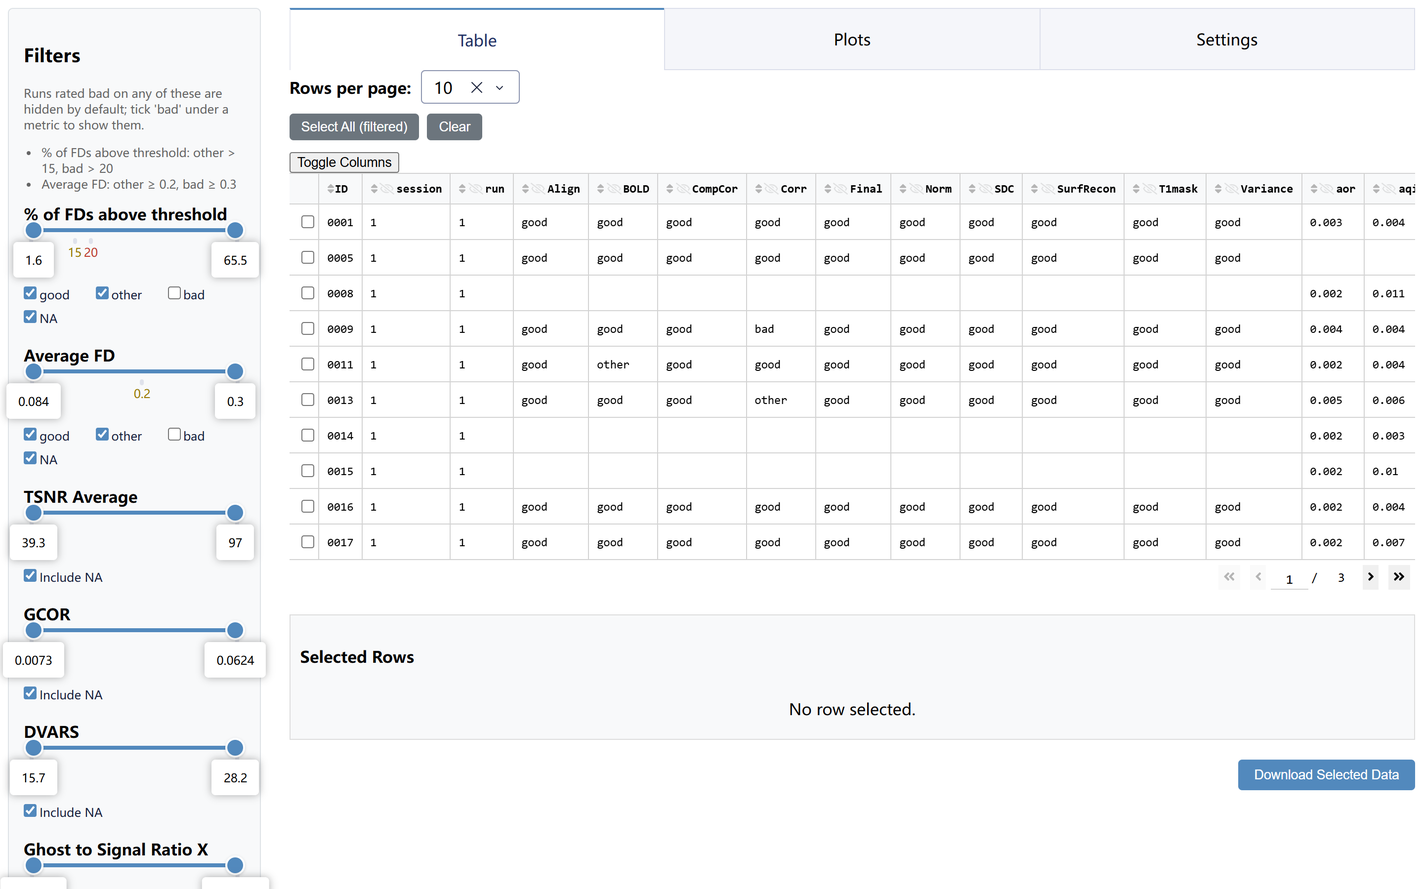
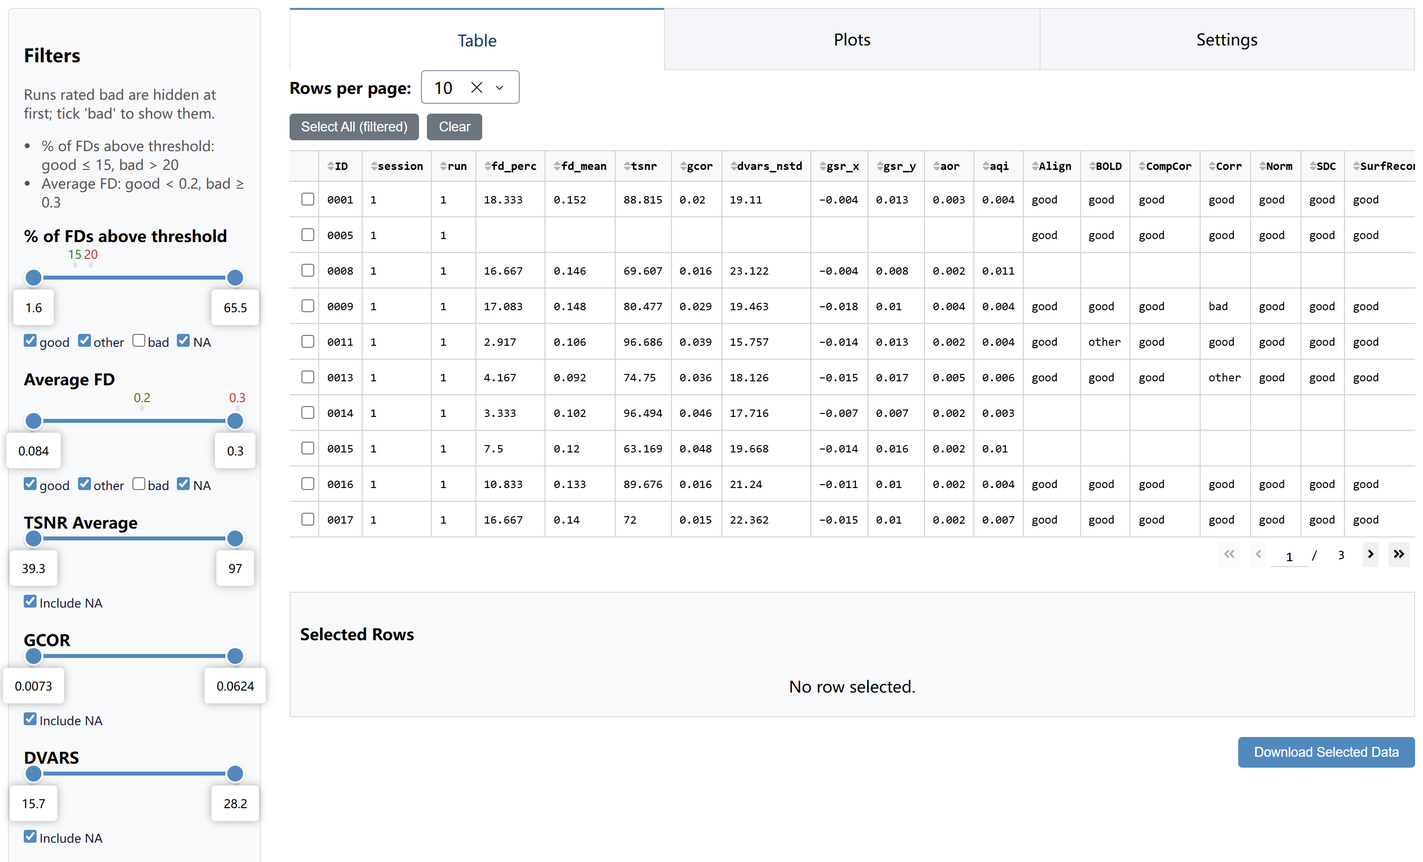
Keep only a quick start in the README and point to the handbook
The dashboard screenshots now end where each tab's content ends instead of filling a fixed window, so the Plots view shows the heatmaps and the lollipop chart without blank space below.

diff --git a/README.md b/README.md
@@ -1,296 +1,76 @@
 # fMRI-QCtoolkit
 
-fMRI-QCtoolkit is a modular Python package for fMRI (functional Magnetic Resonance Imaging) quality control (QC), integrating quantitative metrics from [MRIQC](https://mriqc.readthedocs.io/en/latest/), [fMRIPrep](https://fmriprep.org/en/stable/), and [AFNI](https://afni.nimh.nih.gov/), along with manual scoring. The package includes an interactive dashboard with customizable filters and visualizations, a lightweight front-end for manual rating for fMRIPrep, and supports batch-level scoring for both fMRIPrep and AFNI outputs.
+fMRI-QCtoolkit is a Python package for the quality control (QC) of preprocessed fMRI data. It combines your visual ratings of each participant's QC report with the quantitative metrics from [AFNI](https://afni.nimh.nih.gov/) or [MRIQC](https://mriqc.readthedocs.io/en/latest/), and shows both in an interactive dashboard where you filter runs, look at them in a table and in plots, and download the ones you keep. It works with the outputs of [fMRIPrep](https://fmriprep.org/en/stable/) and AFNI's `afni_proc.py`.
+
+**Handbook: <https://qiuyuyu3.github.io/fMRI-QCtoolkit/>**
 
 ![workflow](https://raw.githubusercontent.com/QiuyuYu3/fMRI-QCtoolkit/main/images/workflow.png)
 
 ## Install
+
 Python 3.11 or newer is required. Create or activate a virtual environment, then install from PyPI:
 
 ```bash
 pip install fmri-qctoolkit
 ```
 
-The example data used in the commands below is not part of the PyPI package. To run the examples, or to work on the code, clone the repository and install it in development mode:
+## Quick start
+
+**1. Rate** each participant's QC report: AFNI's APQC report, or the fMRIPrep report in the toolkit's rating page.
 
 ```bash
-git clone https://github.com/QiuyuYu3/fMRI-QCtoolkit.git
-cd fMRI-QCtoolkit
-pip install -e .[dev]
+fmriqc rating afni --input-dir /PATH/AFNI_derivatives --subjects "001,002" --task rest --prefix sub-
+fmriqc rating fmriprep --input-dir /PATH/fmriprep --subjects "001,002" --output-dir /PATH/ratings
 ```
 
-# Usage
-
-## STEP1: Rating
-
-After the completion of preprocessing, perform qualitative scoring on the derivatives.
-
-### AFNI
-AFNI provides [scripts](https://afni.nimh.nih.gov/pub/dist/doc/htmldoc/tutorials/apqc_html/browsing.html#using-a-script-to-load-many-apqc-html-files) for browsing multiple subjects' QC files. However, using `firefox` on HPC (High-performance computing) systems may result in issues interacting with buttons, so this using `open_apqc.py` is another option (while ensuring the required Python packages are activated in the environment).
-
-The directory structure of AFNI derivatives is as follows:
-```
-.
-└── AFNI_derivatives/
-    ├── sub-001/
-    │   └── ses-01/
-    │       └── cards_output/
-    │           └── sub-001.results/
-    │               ├── QC_sub-001
-    │               └── ...
-    ├── sub-002
-    ├── sub-003
-    └── ...
-```
-
-**Input Arguments:**
-- `fmriqc rating afni`: Indicate which rating program.
-- `--input-dir`: Root directory, containing results that preprocessed from different participants.
-- `--subjects`: Support input multiple participants IDs.
-- `--task`: Rating program will search `task` in `input-dir` to find the `QC_{subj}`
-- `--prefix`: The prefix of participants IDs. 
-
-**Example Synatx:**
-```bash
-fmriqc rating afni --input-dir /PATH/AFNI_derivatives --subjects "003,009" --task ses-01/cards --prefix sub-
-```
-
-*Although I've tried to make the scoring criteria flexible, it may still not support all pathfinding scenarios. Therefore, you can also try [script version](https://github.com/QiuyuYu3/fMRI-QCtoolkit/blob/main/examples/scripts/rating/afni_rating.sh).*
-
-> [!IMPORTANT]  
-> The rating program relies on the `open_apqc.py` tool developed by AFNI.  
-> You can either:
-> - Make sure `open_apqc.py` is on your `$PATH` (e.g., load the AFNI module first), or  
-> - Provide a custom path using the `--afni-path` option when running the command.
-> `fmriqc rating afni --input-dir /PATH/AFNI_derivatives --subjects "003,009" --task ses-01/cards --prefix sub- --afni-path /PATH`
-
-![AFNI_rating](https://raw.githubusercontent.com/QiuyuYu3/fMRI-QCtoolkit/main/images/AFNI_rating.png)
-
-### fMRIPrep
-The rating module in **fMRI-QCtoolkit** is based on the HTML reports generated by fMRIPrep (e.g., `sub-{ID}.html`).  
-Each QC item maps directly to specific sections of the original [fMRIPrep report](https://fmriprep.org/en/stable/_static/SampleReport/sample_report.html).
-
-- Brain mask and brain tissue segmentation of the T1w (T1mask)
-- Spatial normalization of the anatomical T1w reference (Norm)
-- Surface reconstruction (SurfRecon)
-- Susceptibility distortion correction (SDC)
-- Alignment of functional and anatomical MRI data (coregistration) (Align)
-- Brain mask and (anatomical/temporal) CompCor ROIs (CompCor)
-- Variance explained by t/aCompCor components (Variance)
-- BOLD Summary (BOLD)
-- Correlations among nuisance regressors (Corr)
-
-The interface is divided into two parts:  
-- **Upper panel**: navigate modules with a left-click; scroll horizontally with the mouse wheel.  
-- **Lower panel**: interactive rating area, similar to [AFNI’s APQC HTML](https://afni.nimh.nih.gov/pub/dist/doc/htmldoc/tutorials/apqc_html/main_toc.html).  
-  - Left-click to rate, Ctrl+click to add comments.  
-  - Rating buttons toggle between: good (+, green), bad (×, red), and other (?, yellow).  
-  - Results are saved automatically as CSV files (subject-level and task-level). Upon reopening the program with the same code, it will automatically retrieve the previous scores by extracting the subject-level CSV file.
-
-> [!IMPORTANT]
-> If the program cannot detect the session and run number, both will default to 1. For example, the saved CSV file name would be `sub-{ID}_ses-01_rest.csv`. Therefore, when merging with files generated by MRIQC, you need to modify the `ses` parameters.
-
-> [!IMPORTANT]
-> For multi-session subjects, fMRIPrep merges all T1w images into a single anatomical reference ([longitudinal processing](https://fmriprep.org/en/stable/workflows.html#longitudinal-processing)). T1mask / Norm / SurfRecon therefore describe that merged image: one rating per subject, not per session. If several images appear under one of these headings, the subject was processed more than once; check the `Get figure file:` line and rate the one from your current run.
-
-The directory structure of fMRIPrep derivatives is as follows:
-```
-.
-└── fMRIPrep_derivatives/
-    ├── sub-001
-    ├── sub-001.html
-    ├── sub-002
-    ├── sub-002.html
-    ├── sub-003
-    ├── sub-003.html
-    ├── dataset_description.json
-    ├── desc-aparcaseg_dseg.tsv
-    ├── desc-aseg_dseg.tsv
-    └── ...
-```
-
-**Input Arguments:**
-- `fmriqc rating fmriprep`: Indicate which rating program.
-- `--input-dir`: Root directory, containing results that preprocessed from different participants.
-- `--subjects`: Support input multiple participants IDs.
-- `--output-dir`: Path for exporting the scoring CSV file.
-- `--no-browser`: Only print the links, without opening browser tabs (useful on HPC; see [Opening the Pages](#opening-the-pages)).
-
-**Example Synatx:**
-```bash
-fmriqc rating fmriprep --input-dir /PATH/fMRIPrep_derivatives --output-dir /PATH/Output_dir --subjects "1013,1026"
-```
-
-![fMRIPrep_rating](https://raw.githubusercontent.com/QiuyuYu3/fMRI-QCtoolkit/main/images/fMRIPrep_rating.png)
-
-## STEP2: Data Preparation
-By extracting information from qualitative rating files, `fmriqc prep` then writes `df_final.csv`, the table the dashboard reads.
-
-### AFNI
-After finishing preprocessing and rating, both quantitative and qualitative rating information are saved in `QC_{subj}/extra_info/out.ss_review.{subj}.json`. `df_final.csv` keeps every numeric field of this file (a field that holds a list, such as per-run values, gets one column per value), so any of them can be added to the dashboard later.
-
-**Input Arguments:**
-- `fmriqc prep afni`: Indicate which rating program.
-- `--input-dir`: Root directory, containing results that preprocessed from different participants.
-- `--output-dir`: Path for exporting `df_final.csv`.
-- `--task`: Prep program will search `task` in `input-dir` to find the `QC_{subj}/extra_info/out.ss_review.{subj}.json` across all participants. Each run covers one session: if a subject matches in more than one place (for example `ses-01/rest_output` and `ses-02/rest_output`), narrow `--task` to `ses-01/rest`.
-- `--prefix`: The prefix of participants IDs.
-
-**Example Synatx:**
-```bash
-fmriqc prep afni --input-dir /PATH/AFNI_derivatives --task ses-01/kidvid --output-dir /PATH/Output_dir --prefix sub-
-```
-
-> [!NOTE]
-> The dashboard rates the quantitative parameters with the thresholds of Reynolds et al. (2023) ([table](https://www.frontiersin.org/files/Articles/1073800/fnins-16-1073800-HTML/image_m/fnins-16-1073800-t001.jpg)). To use your own, see [Thresholds and filters](#thresholds-and-filters).
-
-### fMRIPrep
-
-After finishing rating procedure, merge the qualitative rating files with quantitative file (`group_bold.tsv`) that generates by MRIQC, and write `df_final.csv` for the dashboard. `df_final.csv` keeps every numeric metric of `group_bold.tsv`, so any of them can be added to the dashboard later.
-
-**Input Arguments:**
-- `fmriqc prep fmriprep`: Indicate which rating program.
-- `--bold-file`:  Input `group_bold.tsv` file that generated by MRIQC.
-- `--rating-dir`: Path for storing fMRIPrep qualitative scores.
-- `--task`: Indicate which task's rating data you want to use.
-- `--output-dir`: Path for exporting `df_final.csv`.
-
-**Example Synatx:**
-```bash
-fmriqc prep fmriprep --bold-file examples/example_data/fmriprep/group_bold.tsv --rating-dir examples/example_data/fmriprep/ --task rest --output-dir examples/example_data/fmriprep/
-```
-
-> [!NOTE]
-> The quantitative parameters are MRIQC's [image quality metrics](https://mriqc.readthedocs.io/en/latest/iqms/bold.html). By default the dashboard rates `fd_perc` and `fd_mean` only, with cut-offs adapted from the AFNI ones, and shows a few other metrics that can be filtered but are not rated. To change this or add other metrics, see [Thresholds and filters](#thresholds-and-filters).
-
-### STEP3: Viewing and Filtering Results via Dashboard
-Visualize, filter, and export selected data.
-
-The left side of the dashboard features filter sidebars where users can select the desired ranges. The central tabs display the data table, the visualizations (heatmaps and lollipop charts), and the settings (see [Thresholds and filters](#thresholds-and-filters)). The table shows the ID, session and run columns, the metrics in the sidebar in the same order, and the ratings; to show another column of `df_final.csv`, add it in the Settings tab. After selecting rows in the data table, the blue download button below allows exporting the corresponding data frame with all its columns.
-
-By default, runs rated bad on any metric are hidden, while runs rated other stay visible and show yellow in the heatmap. Under each rated metric, tick boxes choose which ratings (good, other, bad, NA) are shown; tick bad to bring those runs back. The sliders start at the full range and narrow the view further.
-
-![dashboard1](https://raw.githubusercontent.com/QiuyuYu3/fMRI-QCtoolkit/main/images/dashboard1.png)
-![dashboard2](https://raw.githubusercontent.com/QiuyuYu3/fMRI-QCtoolkit/main/images/dashboard2.png)
-![dashboard3](https://raw.githubusercontent.com/QiuyuYu3/fMRI-QCtoolkit/main/images/dashboard3.png)
-
-### AFNI
-
-**Input Arguments:**
-- `fmriqc dashboard afni`: Indicate which rating program.
-- `--data-file`: Input the merged dataframe (`df_final.csv`).
-- `--task`: Specify the task name to be used when downloading data.
-- `--config`: Optional. The file that holds your settings; the Settings tab saves to it and creates it if it does not exist. Without it, the dashboard uses `afni_config.json` in the folder of `--data-file`. See [Thresholds and filters](#thresholds-and-filters).
-
-**Example Synatx:**
-```bash
-fmriqc dashboard afni --data-file /PATH/Output_dir/df_final.csv --task kidvid
-```
-
-### fMRIPrep
-
-**Input Arguments:**
-- `fmriqc dashboard fmriprep`: Indicate which rating program.
-- `--data-file`: Input the merged dataframe (`df_final.csv`).
-- `--task`: Specify the task name to be used when downloading data and filtering task in the merged dataframe.
-- `--config`: Optional. The file that holds your settings; the Settings tab saves to it and creates it if it does not exist. Without it, the dashboard uses `fmriprep_config.json` in the folder of `--data-file`. See [Thresholds and filters](#thresholds-and-filters).
-
-**Example Synatx:**
-```bash
-fmriqc dashboard fmriprep --data-file examples/example_data/fmriprep/df_final.csv --task rest
-```
-
-### Thresholds and filters
-Each dashboard reads a config file that lists the metrics in the sidebar and the thresholds that rate them. The ratings color the quantitative heatmap and set the default filters. The package ships a default for each pipeline ([AFNI](https://github.com/QiuyuYu3/fMRI-QCtoolkit/blob/main/fMRI_QCtoolkit/dashboard/afni_config.json), [fMRIPrep](https://github.com/QiuyuYu3/fMRI-QCtoolkit/blob/main/fMRI_QCtoolkit/dashboard/fmriprep_config.json)).
-
-To use your own thresholds, change them in the **Settings** tab and press **Save**. They are saved to `afni_config.json` or `fmriprep_config.json` in the folder of `df_final.csv`, and the dashboard uses that file the next time it opens the same data. To keep the settings somewhere else, for example one file for several datasets, start the dashboard with `--config` and a file name; it then reads and saves that file instead:
+**2. Prepare** one table, `df_final.csv`, with the ratings and the metrics (for fMRIPrep, from MRIQC's `group_bold.tsv`).
 
 ```bash
-fmriqc dashboard fmriprep --data-file examples/example_data/fmriprep/df_final.csv --task rest --config my_fmriprep_config.json
+fmriqc prep afni --input-dir /PATH/AFNI_derivatives --task rest --prefix sub- --output-dir /PATH/QC
+fmriqc prep fmriprep --bold-file /PATH/mriqc/group_bold.tsv --rating-dir /PATH/ratings --task rest --output-dir /PATH/QC
 ```
 
-- If the file does not exist yet, the dashboard starts from the package's default and creates the file when you first save.
-- Each row of the tab is one metric: its label, the `other` and `bad` rules (an operator and a number), and the slider step. Beside each row, the tab counts the runs that the thresholds in the form rate good, other, bad and NA, and above the rows it says how many runs would be shown when the dashboard opens.
-- The rows are the metrics the dashboard shows, in the sidebar and the table, in this order; those with a rule are also rated in the heatmap. The list under the rows adds a metric (it offers the numeric columns of `df_final.csv` not in the form yet), ✕ removes one, and the arrows change the order.
-- **Save** checks the thresholds, writes the file, and reloads the page with them. The file it replaces is kept beside it as `<name>.bak`. **Discard changes** goes back to the saved thresholds, and **Use defaults** fills in the package's defaults without saving them.
-- **Download config** saves the settings in the form as a file on the computer running the browser, for example to start with next time, to share, or to keep with a study. If Save cannot write to the folder of `df_final.csv`, download the file and pass it with `--config` next time.
-
-![dashboard_settings](https://raw.githubusercontent.com/QiuyuYu3/fMRI-QCtoolkit/main/images/dashboard_settings.png)
-
-The config is a JSON file that can also be edited by hand. `fmriqc config` writes a copy of the default to start from, and a file edited by hand takes effect when the dashboard is started again:
+**3. View** the table in the dashboard.
 
 ```bash
-fmriqc config fmriprep --output my_fmriprep_config.json
+fmriqc dashboard afni --data-file /PATH/QC/df_final.csv --task rest
+fmriqc dashboard fmriprep --data-file /PATH/QC/df_final.csv --task rest
 ```
 
-`fmriqc config` does not overwrite an existing file unless you add `--force`, so edited thresholds are not replaced by the defaults by accident. When the dashboard starts, it prints the path of the config file it reads and saves: the `--config` file if given, otherwise the one beside `df_final.csv`, with a note when that file does not exist yet and the package's default is used.
+The rating and dashboard commands print a link to open in your browser. In the dashboard, runs rated bad on any metric are hidden at first, and the **Settings** tab changes which metrics are shown and the thresholds that rate them.
 
-Each metric is one entry, keyed by its column in `df_final.csv`:
+![dashboard](https://raw.githubusercontent.com/QiuyuYu3/fMRI-QCtoolkit/main/images/dashboard2.png)
 
-```json
-{
-  "metrics": {
-    "cens_frac":       {"label": "Censor Fraction",         "other": ">= 0.15", "bad": ">= 0.2"},
-    "TSNR":            {"label": "TSNR Average",            "other": "<= 150"},
-    "flip_guess":      {"label": "Flip Guess",                                  "bad": "!= 0",   "step": 1},
-    "frac_TRs_cens_*": {"label": "Fraction TRs Censored",                       "bad": ">= 0.2"},
-    "gsr_x":           {"label": "Ghost to Signal Ratio X"}
-  }
-}
-```
+### On an HPC cluster
 
-- `label`: The name shown in the sidebar and the heatmap. Defaults to the column name.
-- `bad` and `other`: An operator (`>`, `>=`, `<`, `<=`, `==`, `!=`) followed by a number. A run is bad if it meets the `bad` rule, otherwise other if it meets the `other` rule, otherwise good; a missing value is NA. Give only `other` for a metric without a bad level, and neither for a metric that is filtered but not rated (it is left out of the heatmap).
-- `step`: Optional. The slider step; by default it follows the range of the data.
-- A key with `*` covers every matching column, so `frac_TRs_cens_*` gives one entry per stimulus class, each labeled with its column name. The Settings tab can change or remove such an entry; a new one is added by editing the file.
-- Metrics appear in the sidebar and the heatmap in the order of the file. Metrics that are not in the data are skipped, and the dashboard lists them when it starts.
-- The file replaces the default as a whole: metrics you leave out are not shown.
-- Config files from version 1.x no longer work; write a new one with `fmriqc config`.
-
-# Opening the Pages
-`fmriqc rating fmriprep` and `fmriqc dashboard` print a link in the terminal, for example:
-
-```
-http://localhost:5003/0030?token=Xk3v9QpL2mR7tYwZ8aBcD1eF4gH6jK0n
-```
-
-Open that link in your browser; on your own computer the rating pages open by themselves. Every start prints a new link, so if a page says "Access denied", use the link printed most recently.
-
-**On HPC.** Add `--no-browser` to `fmriqc rating fmriprep`. Then, on your own computer, open a terminal and forward the port number in the link (5003 here):
+Add `--no-browser` to `fmriqc rating fmriprep`. Then, on your own computer, forward the port in the printed link (5003 in `http://localhost:5003/...`) and leave this terminal open while you open the link:
 
 ```bash
 ssh -N -L 5003:127.0.0.1:5003 user@hpc.example.edu
 ```
 
-Leave that terminal open and open the printed link in your browser. If the server runs on a compute node (for example `node123` in an `srun` or `salloc` session), go through the login node instead:
+If the command runs on a compute node such as `node123`, go through the login node: `ssh -N -L 5003:127.0.0.1:5003 -J user@hpc.example.edu user@node123`. More in [Opening the pages](https://qiuyuyu3.github.io/fMRI-QCtoolkit/opening-pages.html).
 
-```bash
-ssh -N -L 5003:127.0.0.1:5003 -J user@hpc.example.edu user@node123
-```
+## Documentation
 
-**Advanced.** The token in the link keeps other users on the same machine out of the pages; after the first visit it is kept in a browser cookie. If you forward to a different local port (`-L 8888:127.0.0.1:5003`), change the port in the link and keep the token. `fmriqc dashboard --host` can bind to an address that other machines can reach, in which case the token is the only protection; with `--host 0.0.0.0` the printed link uses this machine's hostname, and `--debug` is refused.
+The [handbook](https://qiuyuyu3.github.io/fMRI-QCtoolkit/) covers each step with all its options: [rating AFNI](https://qiuyuyu3.github.io/fMRI-QCtoolkit/rating-afni.html) and [fMRIPrep](https://qiuyuyu3.github.io/fMRI-QCtoolkit/rating-fmriprep.html) output, [preparing the table](https://qiuyuyu3.github.io/fMRI-QCtoolkit/prep.html), the [dashboard](https://qiuyuyu3.github.io/fMRI-QCtoolkit/dashboard.html), the [Settings tab](https://qiuyuyu3.github.io/fMRI-QCtoolkit/settings.html) and [config file](https://qiuyuyu3.github.io/fMRI-QCtoolkit/config.html), the [default thresholds](https://qiuyuyu3.github.io/fMRI-QCtoolkit/thresholds.html), a [command reference](https://qiuyuyu3.github.io/fMRI-QCtoolkit/cli.html) and [troubleshooting](https://qiuyuyu3.github.io/fMRI-QCtoolkit/troubleshooting.html).
 
-# [Training Materials](https://github.com/QiuyuYu3/fMRI-QCtoolkit/tree/main/training_materials)
-We have summarized the AFNI QC training documentation based on existing literature and included several case studies (still under revision).
+The [training materials](https://github.com/QiuyuYu3/fMRI-QCtoolkit/tree/main/training_materials) hold a QC reference sheet for the AFNI pipeline, for training raters.
 
-# Summary
+Changes between versions are listed in the [change log](https://github.com/QiuyuYu3/fMRI-QCtoolkit/blob/main/CHANGELOG.md).
 
-> [!NOTE]
-> - The data prep feature is designed for users unfamiliar with Python. If you want more flexible data wrangling, write your own script that produces a `df_final.csv` with the same columns.
-> - The sidebar and the heatmap are customizable, as long as `df_final.csv` contains the corresponding columns: the [config file](#thresholds-and-filters) sets which metrics appear and how they are rated.
+## Citation
 
-# Citation
-Coming soon!
+A paper describing fMRI-QCtoolkit is in preparation. Until then, cite the software with the details in [CITATION.cff](https://github.com/QiuyuYu3/fMRI-QCtoolkit/blob/main/CITATION.cff) ("Cite this repository" on GitHub). Please also cite the tools whose outputs you rate:
 
-## Reference
-- Cox R. W. (1996). AFNI: software for analysis and visualization of functional magnetic resonance neuroimages. Computers and biomedical research, an international journal, 29(3), 162–173. https://doi.org/10.1006/cbmr.1996.0014
-- Cox, R. W., & Hyde, J. S. (1997). Software tools for analysis and visualization of fMRI data. NMR in biomedicine, 10(4-5), 171–178. https://pubmed.ncbi.nlm.nih.gov/9430344/
-- Esteban, O., Birman, D., Schaer, M., Koyejo, O. O., Poldrack, R. A., & Gorgolewski, K. J. (2017). MRIQC: Advancing the automatic prediction of image quality in MRI from unseen sites. PloS one, 12(9), e0184661. https://doi.org/10.1371/journal.pone.0184661
-- Esteban, O., Ciric, R., Finc, K. et al. Analysis of task-based functional MRI data preprocessed with fMRIPrep. Nat Protoc 15, 2186–2202 (2020). https://doi.org/10.1038/s41596-020-0327-3
-- Harris, C.R., Millman, K.J., van der Walt, S.J. et al. Array programming with NumPy. Nature 585, 357–362 (2020). https://doi.org/10.1038/s41586-020-2649-2 
-- Kruchten, N., Seier, A., & Parmer, C. (2025). An interactive, open-source, and browser-based graphing library for Python (Version 6.3.1) [Computer software]. https://doi.org/10.5281/zenodo.14503524
-- Pallets. (2025). Flask (Version 3.1.1) [Computer software]. PyPI. https://palletsprojects.com/
-- Parmer, C., Duval, P., & Johnson, A. (2025). A data and analytics web app framework for Python, no JavaScript required. (Version 3.2.0) [Computer software]. https://doi.org/10.5281/zenodo.14182630
-- Ramírez, S. (2025). Typer (Version 0.19.2) [Computer software]. https://github.com/fastapi/typer
-- Reynolds, R. C., Taylor, P. A., & Glen, D. R. (2023). Quality control practices in FMRI analysis: Philosophy, methods and examples using AFNI. Frontiers in Neuroscience, 16, 1073800. https://doi.org/10.3389/fnins.2022.1073800
-- The pandas development team. pandas-dev/pandas: Pandas [Computer software]. https://doi.org/10.5281/zenodo.3509134
+- Cox, R. W. (1996). AFNI: software for analysis and visualization of functional magnetic resonance neuroimages. Computers and Biomedical Research, 29(3), 162–173. https://doi.org/10.1006/cbmr.1996.0014
+- Esteban, O., Birman, D., Schaer, M., Koyejo, O. O., Poldrack, R. A., & Gorgolewski, K. J. (2017). MRIQC: Advancing the automatic prediction of image quality in MRI from unseen sites. PLoS ONE, 12(9), e0184661. https://doi.org/10.1371/journal.pone.0184661
+- Esteban, O., Ciric, R., Finc, K., et al. (2020). Analysis of task-based functional MRI data preprocessed with fMRIPrep. Nature Protocols, 15, 2186–2202. https://doi.org/10.1038/s41596-020-0327-3
+
+The default AFNI thresholds follow Reynolds, R. C., Taylor, P. A., & Glen, D. R. (2023). Quality control practices in FMRI analysis: Philosophy, methods and examples using AFNI. Frontiers in Neuroscience, 16, 1073800. https://doi.org/10.3389/fnins.2022.1073800
+
+The full list of references is in the [handbook](https://qiuyuyu3.github.io/fMRI-QCtoolkit/citation.html).
+
+## License
+
+[Apache License 2.0](https://github.com/QiuyuYu3/fMRI-QCtoolkit/blob/main/LICENSE)

diff --git a/CHANGELOG.md b/CHANGELOG.md
@@ -9,6 +9,7 @@
 - **Table only** columns in the Settings tab, shown in the table without a filter.
 - Settings are saved as `afni_config.json` or `fmriprep_config.json` next to `df_final.csv` and used again next time; `--config FILE` uses another file. The terminal shows which file is used.
 - **Download config** in the Settings tab, and `fmriqc config afni|fmriprep --output FILE`, give a settings file to edit, share or reuse.
+- A [handbook](https://qiuyuyu3.github.io/fMRI-QCtoolkit/) that covers each step in detail; the README now keeps only a quick start.
 
 ### Changed
 - **Thresholds are set in the settings file instead of the code.** Config files from 1.x no longer work; `fmriqc config` writes a new one.
